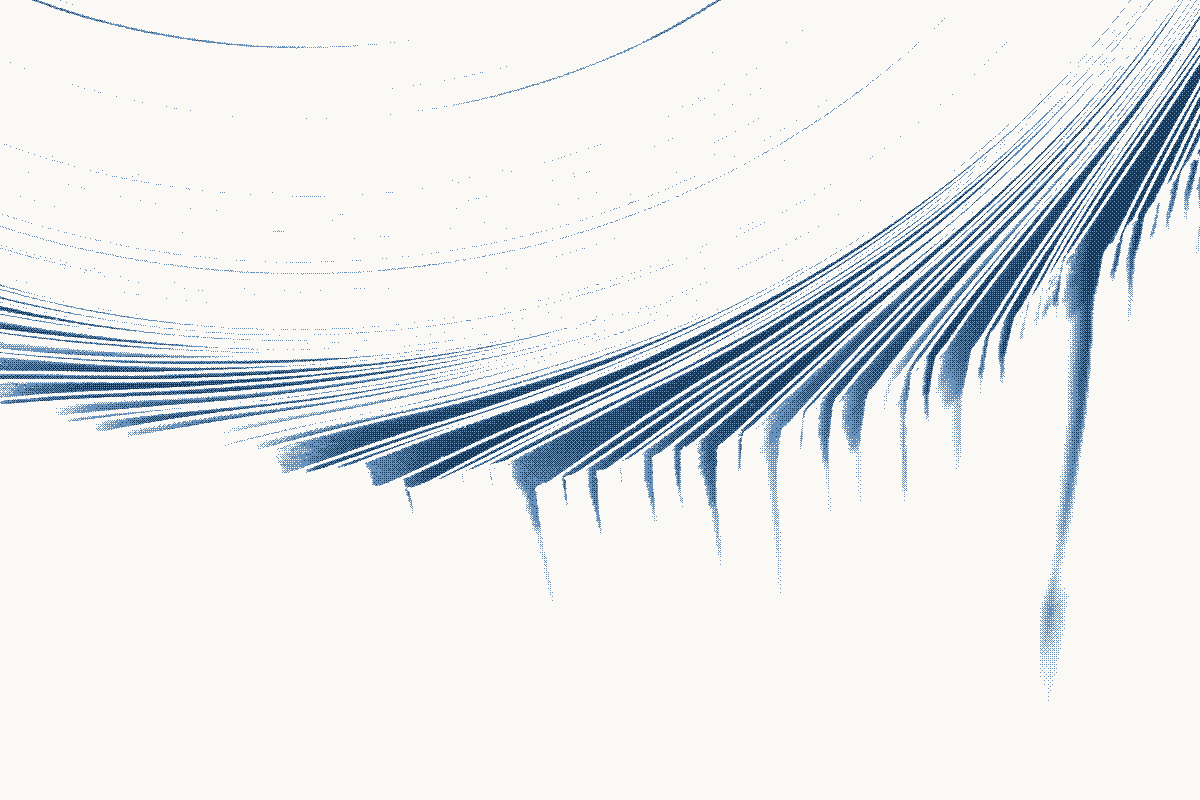
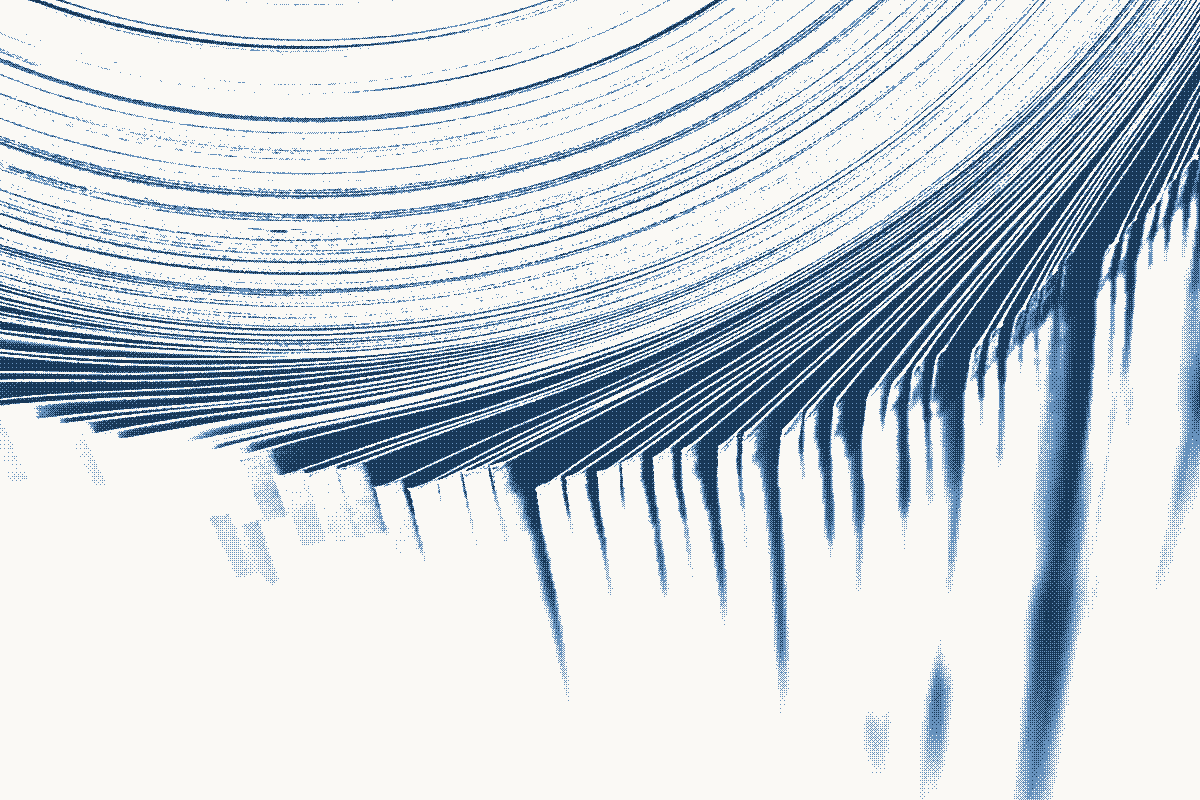
Conhecimento: foto das páginas mais escura (gama 3,5) e encostada no esquema, por cima, com a borda esquerda esfumada

diff --git a/index.html b/index.html
@@ -204,9 +204,15 @@ body>*{position:relative;z-index:1}
 .ar-legenda li::before{content:"";width:26px;border-top:1px solid rgba(20,48,76,.55)}
 .ar-legenda .ar-leg-i::before{border-top-style:dashed}
 /* 22/09: o esquema nos 2/3 da esquerda e a foto dos barquinhos no 1/3 da direita */
-.ar-corpo{display:grid;grid-template-columns:2fr 1fr;gap:32px;align-items:stretch;margin:44px 0 0}
-.ar-palco{position:relative;min-width:0}
-.ar-foto{position:relative;min-height:300px;overflow:hidden}
+.ar-corpo{display:grid;grid-template-columns:2fr 1fr;gap:0;align-items:stretch;margin:44px 0 0}
+.ar-palco{position:relative;min-width:0;z-index:2}
+/* 22/09: «quero que os desenhos se encontrem». Sem vao: a foto entra 90px sobre a
+   borda do esquema, POR CIMA (a trama dos circulos e um canvas opaco, e por baixo
+   dela a foto sumia numa quina), com a borda esquerda esfumada e sem receber o
+   mouse (pointer-events:none: o hover dos temas continua); o rastro do mouse nela
+   vem do motor, que escuta a janela. */
+.ar-foto{position:relative;min-height:300px;overflow:hidden;z-index:3;margin-left:-90px;pointer-events:none;
+  -webkit-mask-image:linear-gradient(to right,transparent 0,#000 30%);mask-image:linear-gradient(to right,transparent 0,#000 30%)}
 /* a foto das paginas em leque (foto.py: espelhada, trama da casa pelo motor, com
    rastro do mouse), cobrindo a vaga: so os lados sao cortados */
 .ar-foto img,.af-gl{position:absolute;inset:0;width:100%;height:100%;display:block;object-fit:cover}
@@ -2547,7 +2553,7 @@ body>*{position:relative;z-index:1}
 <li class="ar-item ar-item--i"><a href="estudos-pesquisa.html">Estudos e pesquisa aplicada</a><span class="ar-normas"><span>Nota técnica</span><span>Observatório setorial</span><span>EUDR</span></span></li>
 </ul>
   </div>
-  <div class="ar-foto" aria-hidden="true"><img src="img/conhecimento-paginas-bayer.webp" data-lum="img/conhecimento-paginas-lum.webp" alt="" width="1200" height="800" loading="lazy" decoding="async"></div>
+  <div class="ar-foto" aria-hidden="true"><img src="img/conhecimento-paginas-bayer.webp?v=2" data-lum="img/conhecimento-paginas-lum.webp?v=2" alt="" width="1200" height="800" loading="lazy" decoding="async"></div>
   </div>
 </section>
 

diff --git a/_ferramentas/arcos/foto.py b/_ferramentas/arcos/foto.py
@@ -13,8 +13,11 @@ ORIGEM. O cru fica em Ideal Metrics/_tingir-fotos/FOTOS/paginas-revista-leque.jp
 ESPELHADA. No original o lado direito e o mais claro; o Leandro pediu espelhar,
 para o leque denso ficar a DIREITA e o lado claro encostar no esquema.
 
-TRAMA DA CASA, sem ajuste: a foto tem tom de sobra (5% abaixo de 0,20, mediana
-0,84), entao a curva do shader ja deixa o papel em creme e o leque em azul.
+TRAMA DA CASA, com a foto ESCURECIDA antes (22/09): direto na curva do shader
+(brilho +0,35) ela ficou apagada, «quase nao da pra reconhecer». A mediana e
+0,84, quase tudo papel claro, e a curva leva isso ao creme. Por isso
+lum = (lum / 0,93) ^ GAMA, com GAMA 3,5: os aneis das folhas no alto e as
+paginas em leque embaixo aparecem; 2,2 ainda era ralo, 5 empapava o leque.
 A pagina faz object-fit cover (vaga ~426 x 384 css numa tela de 1440; a foto e
 1,5:1, entao so os lados sao cortados).
 
@@ -33,21 +36,23 @@ import manchas   # a curva de tom e a rampa
 SITE = os.path.dirname(os.path.dirname(AQUI))
 CRU = os.path.join(os.path.dirname(SITE), '_tingir-fotos', 'FOTOS', 'paginas-revista-leque.jpg')
 LARG = 1200
+GAMA = 3.5
 
 
 def main():
     im = ImageOps.mirror(Image.open(CRU).convert('L'))
     im = im.resize((LARG, round(im.height * LARG / im.width)), Image.LANCZOS)
-    lum = np.asarray(im, dtype=np.float64) / 255
+    lum = np.clip(np.asarray(im, dtype=np.float64) / 255 / .93, 0, 1) ** GAMA
     img = os.path.join(SITE, 'img')
-    im.save(os.path.join(img, 'conhecimento-paginas-lum.webp'), lossless=True)
+    Image.fromarray((lum * 255).round().astype(np.uint8), 'L').save(
+        os.path.join(img, 'conhecimento-paginas-lum.webp'), lossless=True)
     m4 = np.array([[0, 8, 2, 10], [12, 4, 14, 6], [3, 11, 1, 9], [15, 7, 13, 5]])
     yy, xx = np.mgrid[0:im.height, 0:im.width]
     T = (m4[yy % 4, xx % 4] + .5) / 16
     k = np.clip(np.floor(manchas.tom(lum) * 3 + T), 0, 3).astype(int)
     Image.fromarray(manchas.CORES[k].round().astype(np.uint8), 'RGB').save(
         os.path.join(img, 'conhecimento-paginas-bayer.webp'), lossless=True)
-    print('conhecimento-paginas: %d x %d, espelhada' % im.size)
+    print('conhecimento-paginas: %d x %d, espelhada, gama %.1f' % (im.width, im.height, GAMA))
 
 
 if __name__ == '__main__':

diff --git a/_ferramentas/arcos/monta.py b/_ferramentas/arcos/monta.py
@@ -39,9 +39,15 @@ CSS = r"""
 .ar-legenda li::before{content:"";width:26px;border-top:1px solid rgba(20,48,76,.55)}
 .ar-legenda .ar-leg-i::before{border-top-style:dashed}
 /* 22/09: o esquema nos 2/3 da esquerda e a foto dos barquinhos no 1/3 da direita */
-.ar-corpo{display:grid;grid-template-columns:2fr 1fr;gap:32px;align-items:stretch;margin:44px 0 0}
-.ar-palco{position:relative;min-width:0}
-.ar-foto{position:relative;min-height:300px;overflow:hidden}
+.ar-corpo{display:grid;grid-template-columns:2fr 1fr;gap:0;align-items:stretch;margin:44px 0 0}
+.ar-palco{position:relative;min-width:0;z-index:2}
+/* 22/09: «quero que os desenhos se encontrem». Sem vao: a foto entra 90px sobre a
+   borda do esquema, POR CIMA (a trama dos circulos e um canvas opaco, e por baixo
+   dela a foto sumia numa quina), com a borda esquerda esfumada e sem receber o
+   mouse (pointer-events:none: o hover dos temas continua); o rastro do mouse nela
+   vem do motor, que escuta a janela. */
+.ar-foto{position:relative;min-height:300px;overflow:hidden;z-index:3;margin-left:-90px;pointer-events:none;
+  -webkit-mask-image:linear-gradient(to right,transparent 0,#000 30%);mask-image:linear-gradient(to right,transparent 0,#000 30%)}
 /* a foto das paginas em leque (foto.py: espelhada, trama da casa pelo motor, com
    rastro do mouse), cobrindo a vaga: so os lados sao cortados */
 .ar-foto img,.af-gl{position:absolute;inset:0;width:100%;height:100%;display:block;object-fit:cover}
@@ -180,8 +186,8 @@ def secao(L):
         svg(L),
         arcos.lista(),
         '  </div>',
-        '  <div class="ar-foto" aria-hidden="true"><img src="img/conhecimento-paginas-bayer.webp" '
-        'data-lum="img/conhecimento-paginas-lum.webp" alt="" width="1200" height="800" loading="lazy" decoding="async"></div>',
+        '  <div class="ar-foto" aria-hidden="true"><img src="img/conhecimento-paginas-bayer.webp?v=2" '
+        'data-lum="img/conhecimento-paginas-lum.webp?v=2" alt="" width="1200" height="800" loading="lazy" decoding="async"></div>',
         '  </div>',
         '</section>',
     ])
